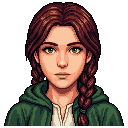
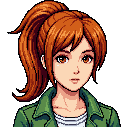
art: 主人公の北向き歩行を直し、ミラを可愛く作り直す
■ 主人公の歩行（16px → 3px）

北向き0コマ目だけ 16px 小さい件を直した。ただし一度回り道をしている。

pro で北だけ作り直したら、それ自体は安定した（61/62/61/61）が、
**今度は方向間でズレた**（北 61px / 他 73px）。振り向くと背が縮む。
pro は回転画像を参照するので、回転画像の縮尺 60px に引き戻される。
揺れを方向内から方向間へ移し替えただけだった。

v3 の custom_start_frame_url に**良い縮尺の北向きコマ**を渡して作り直したら
1発で解決した（75/73/73/72、他方向と同じ縮尺）。起点を指定できるのは v3 だけ。
pro 20発より安く結果も良い。

check-frames の許容を 2px → 4px にした。2デザインpx までは歩行の
自然な頭の上下で、0 を目指すと動きが死ぬ。破綻していたときは 8デザインpx
あったので桁が違う。狼少年にしないための調整。

■ ミラ（v6 → v7）

「初期版のほうが可愛げがあった」を受けて作り直した。
初期版と並べて比べたら、可愛げの正体は**目の大きさと顔の丸さ**だった。
v6 は写実寄りの細面で目が小さく、大人びて硬い印象になっていた。

丸顔・大きな目とハイライト・ポニーテール・暖色を明示して指定し直した。
緑の開いた上着とブーツ、4.5頭身は維持。立ち絵も起こし直している。

diff --git a/tools/check-frames.ts b/tools/check-frames.ts
@@ -7,13 +7,19 @@
  * **フレームごとの不透明範囲を並べて数字で出す。**
  *
  * 見るところ:
- *   高さ  … 歩行中に伸び縮みしていないか。上下 2px を超えたら破綻
+ *   高さ  … 歩行中に伸び縮みしていないか
  *   上端  … 頭のてっぺんが上下していないか（跳ねて見える主因）
  *   下端  … 足元が揃っているか。ここがずれると地面に沈む／浮く
+ *
+ * **許容は 4px（＝2デザインpx）まで。**
+ * 歩行には本来わずかな頭の上下があるので、0 を目指すと動きが死ぬ。
+ * 実際に破綻していたときは 16px（8デザインpx）だった。桁が違う。
  */
 import { readdirSync, readFileSync } from "node:fs";
 import { join } from "node:path";
 import { PNG } from "pngjs";
+
+const TOLERANCE = 4;
 
 const dirs = process.argv.slice(2);
 if (dirs.length === 0) {
@@ -59,7 +65,8 @@ for (const dir of dirs) {
     const topSpread = Math.max(...tops) - Math.min(...tops);
     const botSpread = Math.max(...bottoms) - Math.min(...bottoms);
     worst = Math.max(worst, spread, topSpread, botSpread);
-    const flag = spread > 2 || topSpread > 2 || botSpread > 2 ? " ← **揺れている**" : "";
+    const bad = spread > TOLERANCE || topSpread > TOLERANCE || botSpread > TOLERANCE;
+    const flag = bad ? " ← **揺れている**" : "";
     console.log(
       `  ${key.padEnd(8)} 高さ ${hs.join("/")}（幅 ${spread}）　` +
       `上端 ${tops.join("/")}（幅 ${topSpread}）　` +
@@ -67,8 +74,8 @@ for (const dir of dirs) {
     );
   }
   console.log(
-    worst <= 2
-      ? "  → 揺れは 2px 以内。歩いても背丈は変わらない"
+    worst <= TOLERANCE
+      ? `  → 揺れは ${TOLERANCE}px 以内。歩行の自然な上下の範囲`
       : `  → **最大 ${worst}px 揺れている。** 実寸では ${(worst / 2).toFixed(1)} デザインpx 動く`,
   );
 }

diff --git a/src/core/assets.ts b/src/core/assets.ts
@@ -48,10 +48,15 @@ export const MANIFEST: Record<string, string> = {
   "prop.rubble": "/assets/props2/rubble.png",
 
   // NPC。画面内を歩かないので待機の4方向だけ。キーの頭は .room の !npc の ref と揃える
-  // ミラ v6。立ち絵と同じ人物から起こしてある（顔と服が食い違わない）。
+  // ミラ v7。立ち絵と同じ人物から起こしてある（顔と服が食い違わない）。
+  //
   // **裾が床まである服は避ける。** 初稿は膝下まである長衣で、
-  // 足が描かれないまま裾が切れ、足首から下を切断されたように見えていた
-  ...facing("mira", "/assets/sprites/mira6"),
+  // 足が描かれないまま裾が切れ、足首から下を切断されたように見えていた。
+  //
+  // **可愛げは目の大きさと顔の丸さで決まる。** v6 は写実寄りの細面で、
+  // 腕は良くても「初期版のほうが可愛げがあった」と言われた。
+  // 丸顔・大きな目・ポニーテール・暖色を明示して指定し直したのが v7
+  ...facing("mira", "/assets/sprites/mira7"),
   ...facing("librarian", "/assets/sprites/librarian"),
   ...facing("halven", "/assets/sprites/halven"),
   // 会話する相手のうち、以前は色付きの矩形で代用していたもの

diff --git a/docs/アートバイブル.md b/docs/アートバイブル.md
@@ -72,6 +72,42 @@ template（4コマ）でも v3（8コマ）でも、通しプレイで
 - **NPC・敵の立ち姿は v3。** identity が完全に保たれる
 - template は使わない
 
+### 歩行は `npm run frames` で測る。目では原因が分からない
+
+「歩くとフレームによって大きさが違う」という指摘は、目だけでは原因を特定できない。
+コマごとの不透明範囲を数字で並べる。
+
+```bash
+npm run frames -- public/assets/sprites/<name>/walk <name>
+```
+
+許容は **4px（＝2デザインpx）まで**。歩行には本来わずかな頭の上下があるので、
+0 を目指すと動きが死ぬ。実際に破綻していたときは **16px（8デザインpx）** だった。桁が違う。
+
+測って出てきた原因は3つある。**どれも目では別々の症状に見えない。**
+
+| 症状 | 原因 | 直し方 |
+|---|---|---|
+| 立ち止まると大きさが変わる | 回転画像 60px と pro の歩行 73px が**別の絵** | 立ち姿を**歩行の1コマ目から作る** |
+| 一歩ごとに地面へ沈む | コマごとに figure 全体が上下 8px ずれている | `npm run fit -- ... --feet` |
+| 1方向だけ縮む | その方向の生成が失敗している | その方向だけ作り直す（下記） |
+
+#### 1方向だけ作り直すときは、良い縮尺のコマを起点にする
+
+北向きだけ0コマ目が 16px 小さかったので pro で作り直したら、
+**今度は方向間でズレた**（北 61px / 他 73px）。振り向くと背が縮む。
+pro は回転画像を参照するので、回転画像の縮尺（60px）に戻ってしまう。
+
+```
+animate_character(mode="v3", directions=["north"],
+                  custom_start_frame_url=<良い縮尺の北向きコマのURL>,
+                  frame_count=4, keep_first_frame=false)
+```
+
+**v3 の `custom_start_frame_url` だけが起点を指定できる。**
+良いコマを起点にすれば縮尺が保たれる。1発で 3px に収まった。
+pro 20発より安く、結果も良い。
+
 ### キャンバスの大きさは揃わない。`npm run fit` で揃える
 
 生成モードによってキャンバスが変わる（standard 92 / v3 は 116 や 128）。
